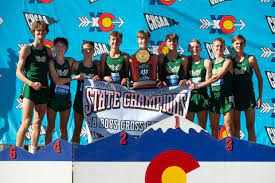
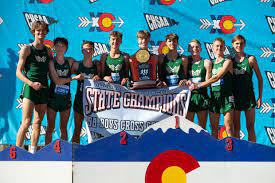
tried making photos look better

diff --git a/fourth.html b/fourth.html
@@ -25,7 +25,7 @@
     <button onclick="reset()" class="buttonStyle">Reset</button>
 
     <div class="w3-cell-row">
-        <img src="xc2021.jpg" class="w3-container w3-cell w3-half">
+        <img src="xc2021.webp" class="w3-container w3-cell w3-half">
         <p class="w3-container w3-cell w3-half myBox"> 
             Over the summer we welcomed a bunch of new kids to the team and showed them the team culture that we have worked hard to build. We trained hard and I looked for colleges to attend. I was moving in the right directions with my times, however, it was still a battle for spots on Varsity and my times were just dropping a couple of seconds at a time. Throughout the season we were going back and forth with Valor being ranked 1 and 2 in 5A. We went into State being ranked 2nd and all of us were determined to walk away with another trophy and make it 7 total titles for the guys team. During the race I was working with my teammate Luke Urban and in the final quarter mile we moved up together and passed 2 valor kids and helped win the meet by 1 point. I ran 16:40 in 21st place. Next was NXR where the course was long but I ran 16:15 which converted to a 15:45. My last XC meet of high school was RunningLane National Championships. After last year's success and many donors, the meet became the new nationals and hosted the fastest teams in the nation. We placed 10th as a team and I ran 15:37 a new PR. I was happy to run a PR and finish my high school XC career with my friends on a great day.
         </p>

diff --git a/yocomFinal.css b/yocomFinal.css
@@ -14,6 +14,8 @@
     font-family: 'Tapestry', cursive;
 }
 
+
+
 h1:hover {
     text-decoration: underline;
 }
